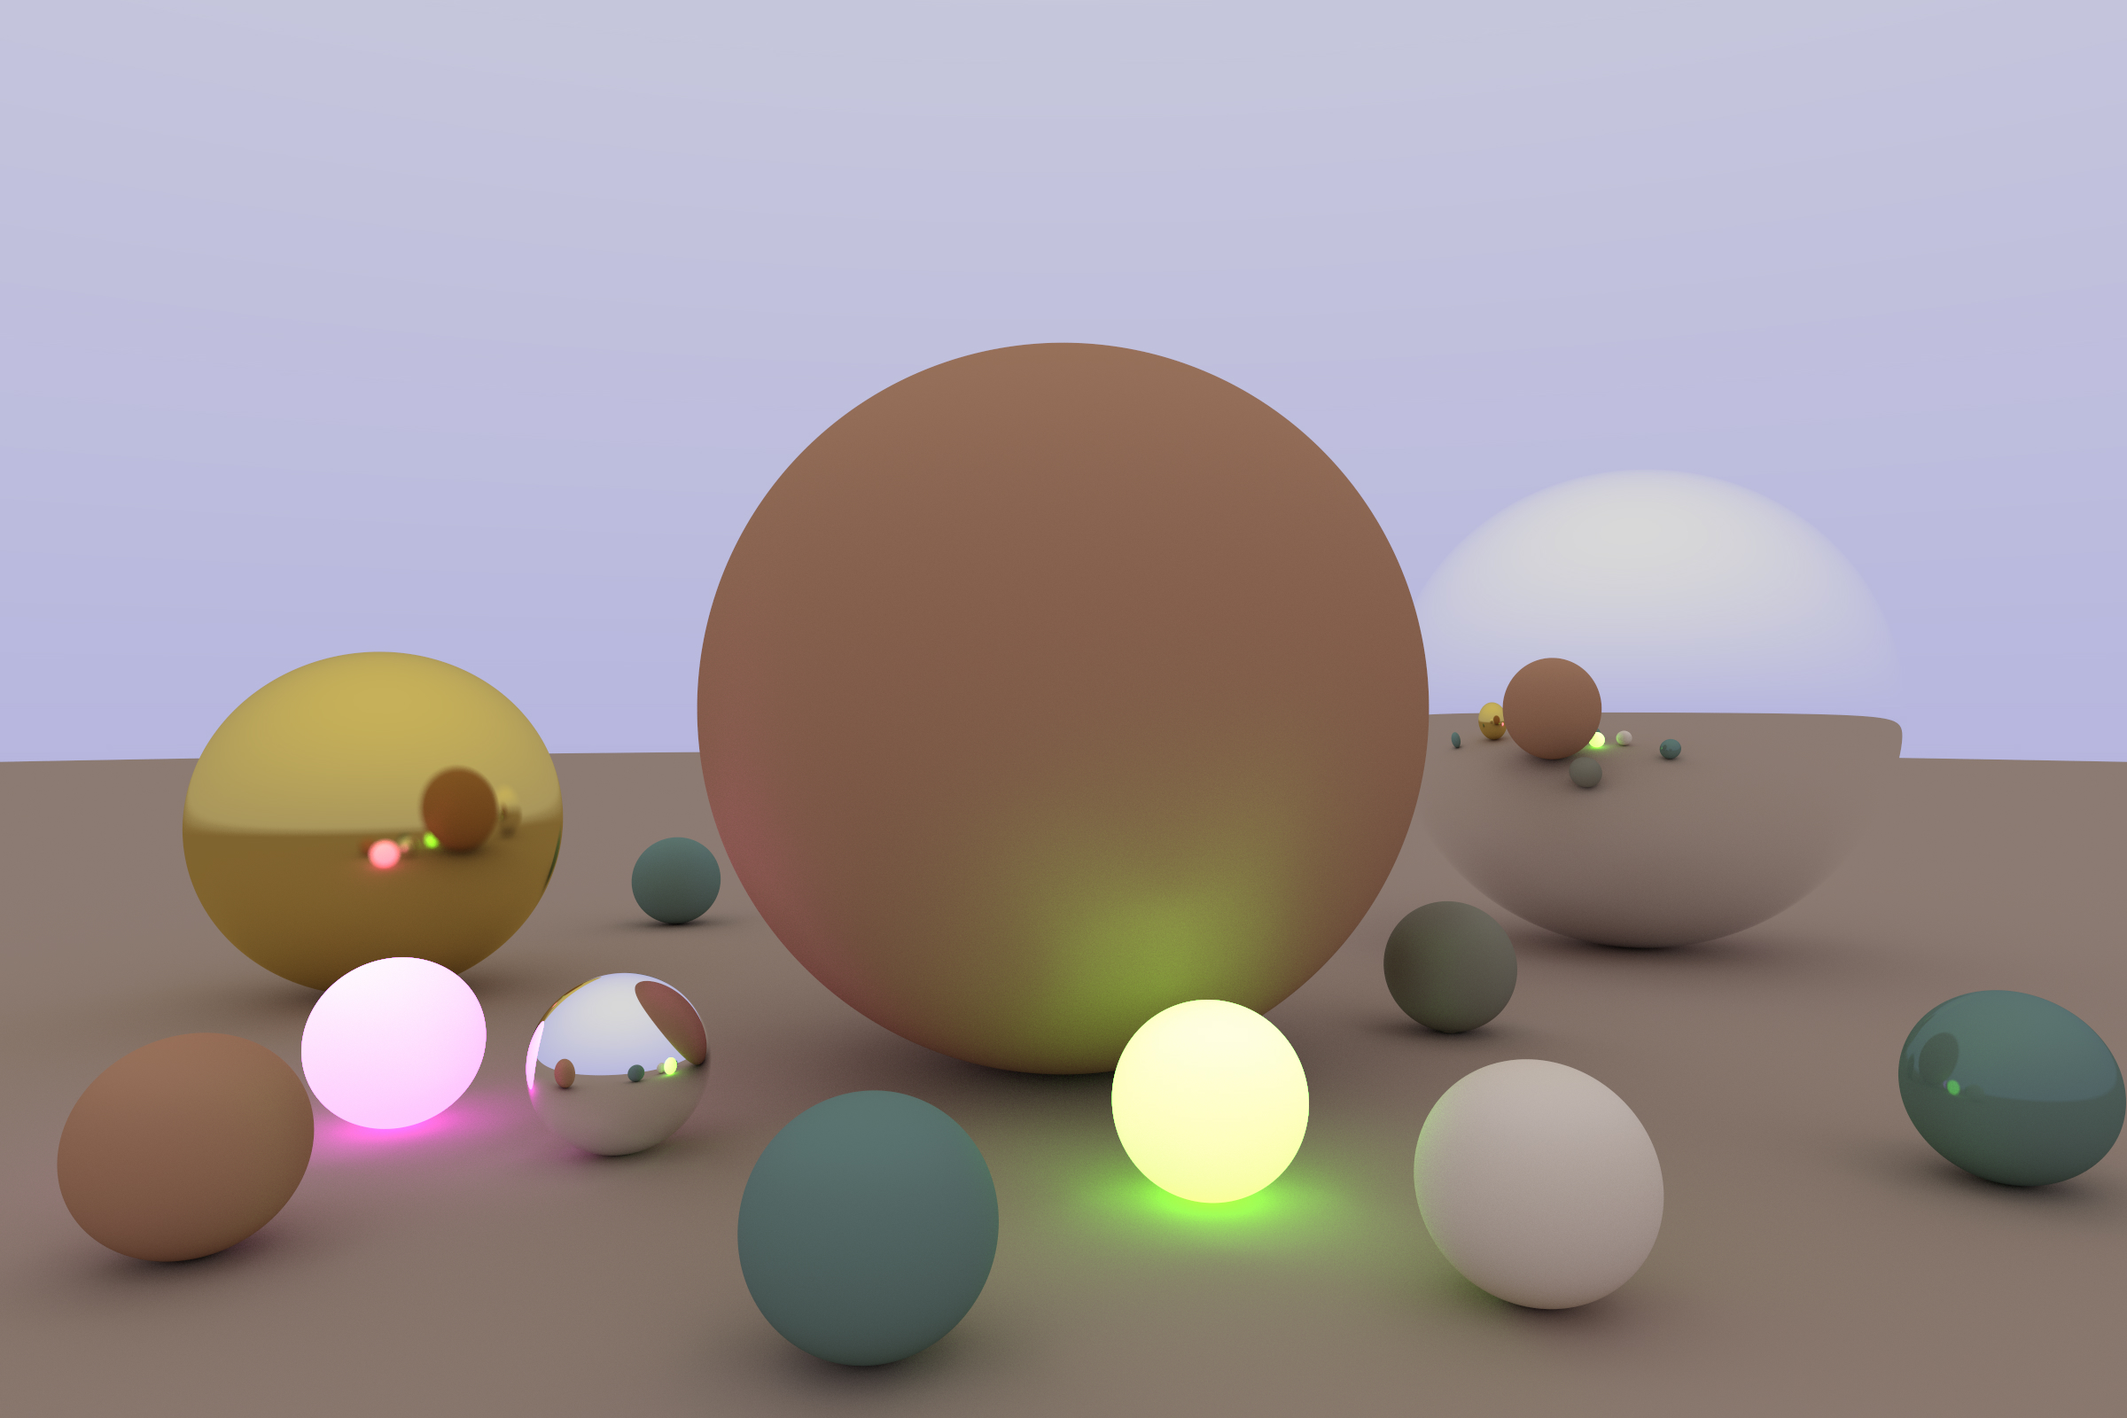
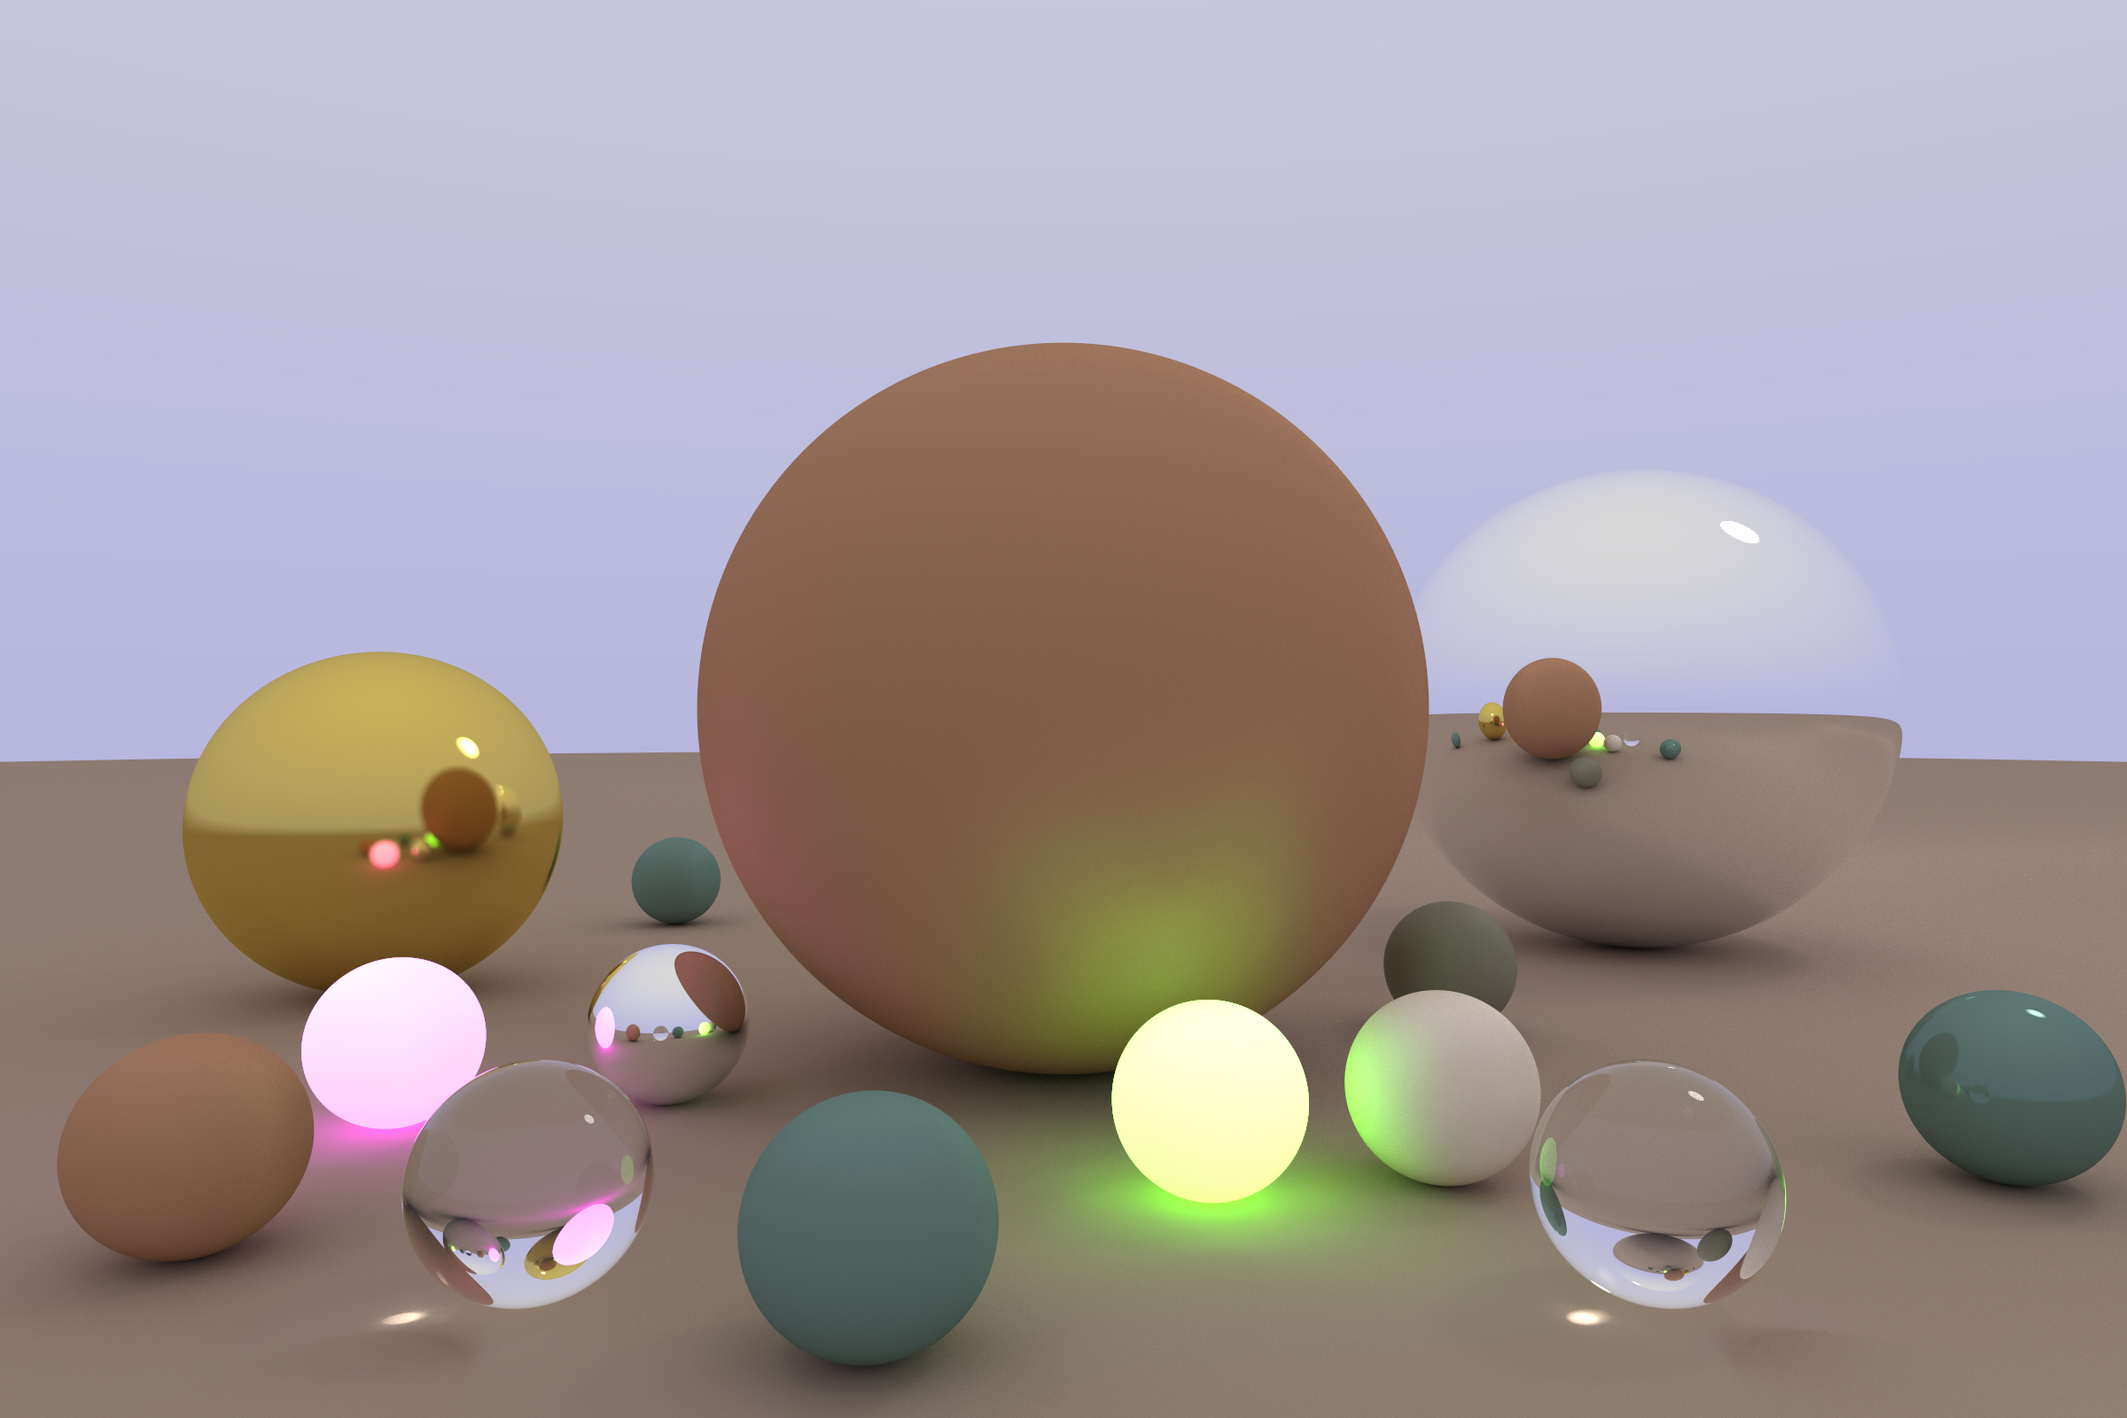
Added glass materials

diff --git a/src/ray_tracing_library/include/Material.h b/src/ray_tracing_library/include/Material.h
@@ -9,47 +9,76 @@
 
 struct HitResult;
 
+/**
+ * Represent a material property for the renderer.
+ *
+ *
+ * It is not implemented with OOP design in order to gain performance.
+ */
 class Material {
 public:
     Material() = default;
 
-    [[nodiscard]]
-    std::tuple<Color, Color, Ray> getColorAndSecondaryRay(const HitResult &hitRes) const;
+    [[nodiscard]] std::tuple<Color, Color, Ray> getColorAndSecondaryRay(const HitResult &hitRes) const;
 
-    [[nodiscard]]
-    static Material getLambertian(const Color &albedo) {
+    [[nodiscard]] static Material getLambertian(const Color &albedo) {
         return Material(albedo);
     }
 
-    [[nodiscard]]
-    static Material
+    [[nodiscard]] static Material
     getSpecular(const Color &albedo, const Color &specularColor, double roughness, double percentSpecular) {
         return {albedo, specularColor, roughness, percentSpecular};
     }
 
-    [[nodiscard]]
-    static Material getGlowing(const Color &albedo, const Color &emittedColor) {
-        return {albedo, {0, 0, 0}, 0, 0, emittedColor};
+    [[nodiscard]] static Material getGlowing(const Color &albedo, const Color &emittedColor) {
+        return {albedo, emittedColor};
+    }
+
+    [[nodiscard]] static Material getGlass(const Color &albedo, double refractionIdx) {
+        return {albedo, refractionIdx};
     }
 
 private:
-    explicit Material(const Color &albedo) :
-            Material(albedo, {0, 0, 0}, 0, 0) {}
+    Color _albedo{};
+    Color _specularColor{};
+    Color _emittedColor{};
+    double _percentSpecular{};
+    double _roughnessSquared{};
+    double _refractionIdx = 1.0;
+    bool _isRefractable = false;
+
+
+    explicit Material(const Color &albedo) : _albedo(albedo),
+                                             _specularColor({0, 0, 0}),
+                                             _emittedColor({0, 0, 0}),
+                                             _percentSpecular(0),
+                                             _roughnessSquared(0) {}
 
     Material(const Color &albedo,
              const Color &specularColor,
-             double roughnessSquared,
-             double percentSpecular,
-             const Color &emittedColor = {0, 0, 0})
-            : _albedo(albedo),
-              _specularColor(specularColor),
-              _emittedColor(emittedColor),
-              _percentSpecular(percentSpecular),
-              _roughnessSquared(roughnessSquared * roughnessSquared) {}
+             double roughness,
+             double percentSpecular) : _albedo(albedo),
+                                       _specularColor(specularColor),
+                                       _emittedColor({0, 0, 0}),
+                                       _percentSpecular(percentSpecular),
+                                       _roughnessSquared(roughness * roughness) {}
 
-    Color _albedo;
-    Color _specularColor{};
-    Color _emittedColor{};
-    double _roughnessSquared{};
-    double _percentSpecular{};
+    Material(const Color &albedo, const Color &emittedColor) : _albedo(albedo),
+                                                               _specularColor({0, 0, 0}),
+                                                               _emittedColor(emittedColor),
+                                                               _percentSpecular(0),
+                                                               _roughnessSquared(0) {}
+
+    Material(const Color &albedo, double refractionIdx) : _albedo(albedo),
+                                                          _specularColor({1, 1, 1}),
+                                                          _emittedColor({0, 0, 0}),
+                                                          _percentSpecular(1.0),
+                                                          _roughnessSquared(0),
+                                                          _refractionIdx(refractionIdx),
+                                                          _isRefractable(true) {}
+
+
+    bool shouldDoReflection(const HitResult &hitRes, double refractionIdxRatio, Vec3 &rayDirNormalized) const;
+
+    std::tuple<Vec3, Color> getSpecularResult(const HitResult &hitRes, Vec3 &diffuseDir, double specularChance) const;
 };

diff --git a/src/ray_tracing_library/src/Material.cpp b/src/ray_tracing_library/src/Material.cpp
@@ -2,22 +2,18 @@
 // Created by Sahar on 11/06/2022.
 //
 
-#include <utils.h>
+#include "utils.h"
 #include "Material.h"
 
 
 std::tuple<Color, Color, Ray> Material::getColorAndSecondaryRay(const HitResult &hitRes) const {
     Vec3 secondaryRayDir;
-    Vec3 diffuseDir = normalize((hitRes.normal + randomUnitVec()));
     Color resultColor;
+    Vec3 diffuseDir = normalize((hitRes.normal + randomUnitVec()));
 
     double specularChance = randomDouble();
-    bool shouldDoSpecular = specularChance < _percentSpecular;
-    if (shouldDoSpecular) {
-        Vec3 specularDir = reflect(hitRes.hittingRay.direction(), hitRes.normal);
-        specularDir = normalize(alphaBlending(specularDir, diffuseDir, _roughnessSquared));
-        secondaryRayDir = specularDir;
-        resultColor = alphaBlending(_specularColor, _albedo, specularChance);
+    if (specularChance < _percentSpecular) {
+        std::tie(secondaryRayDir,resultColor ) = getSpecularResult(hitRes, diffuseDir, specularChance);
     } else {
         secondaryRayDir = diffuseDir;
         resultColor = _albedo;
@@ -27,23 +23,29 @@ std::tuple<Color, Color, Ray> Material::getColorAndSecondaryRay(const HitResult 
     return {_emittedColor, resultColor, secondaryRay};
 }
 
-//bool Glass::getColor(const HitResult &hitRes, Color &attenuation, Ray &reflectionRay, Ray &refractionRay) const {
-//    attenuation = _albedo;
-//    double hitRay_dot_normal = dot(hitRes.hittingRay.direction(), hitRes.normal);
-//    bool front_face = hitRay_dot_normal < 0;
-//    double refraction_ratio = front_face ? (1.0 / _refractiveIndex) : _refractiveIndex;
-//
-//    Vec3 unit_direction = unitVector(hitRes.hittingRay.direction());
-//    double cos_theta = fmin(-hitRay_dot_normal, 1.0);
-//    double sin_theta = sqrt(1.0 - cos_theta*cos_theta);
-//
-//    bool cannot_refract = refraction_ratio * sin_theta > 1.0;
-//    Vec3 direction;
-//    if (cannot_refract || reflectance(cos_theta, refraction_ratio) > randomDouble()) {
-//        direction = reflect(unit_direction, hitRes.normal);
-//    } else {
-//        direction = refract(unit_direction, hitRes.normal, refraction_ratio);
-//    }
-//    refractionRay = Ray(hitRes.hitPoint, direction);
-//    return true;
-//}
+std::tuple<Vec3, Color> Material::getSpecularResult(const HitResult &hitRes,
+                                                    Vec3 &diffuseDir,
+                                                    double specularChance) const {
+    double refractionIdxRatio = hitRes.isOutwardsNormal ? 1.0 / _refractionIdx : _refractionIdx;
+    Vec3 rayDirNormalized = normalize(hitRes.hittingRay.direction());
+
+    Vec3 specularDir;
+    bool doReflection = shouldDoReflection(hitRes, refractionIdxRatio, rayDirNormalized);
+    if (doReflection) {
+        specularDir = reflect(hitRes.hittingRay.direction(), hitRes.normal);
+    } else {
+        specularDir = refract(rayDirNormalized, hitRes.normal, refractionIdxRatio);
+    }
+
+    specularDir = normalize(alphaBlending(specularDir, diffuseDir, _roughnessSquared));
+    Color color = alphaBlending(_specularColor, _albedo, specularChance);
+    return {specularDir, color};
+}
+
+bool Material::shouldDoReflection(const HitResult &hitRes, double refractionIdxRatio, Vec3 &rayDirNormalized) const {
+    double cosTheta = fmin(dot(-rayDirNormalized, hitRes.normal), 1.0);
+    bool cannotRefract = cannotRefractBySnellsLaw(cosTheta, refractionIdxRatio);
+    bool reflectBySchlickApprox = reflectSchlickApproxForFrensel(cosTheta, refractionIdxRatio) > randomDouble();
+    bool doReflection = !_isRefractable || cannotRefract || !reflectBySchlickApprox;
+    return doReflection;
+}

diff --git a/main.cpp b/main.cpp
@@ -34,17 +34,24 @@ World initWorld1() {
 
     Material neonPurpleGlow = Material::getGlowing(white * .8, neonPurple * 3);
     Material neonGreenGlow = Material::getGlowing(white * .8, neonGreen * 3);
+    Material whiteLight = Material::getGlowing(white * .8, white * 10);
+
+    Material glass = Material::getGlass(white, 1.5);
+
+    world.addSphere(Sphere({4, 4.5, -3}, 0.5, whiteLight));
 
     world.addSphere(Sphere({0, 0, -2}, 0.5, lambertianRedBrown));
     world.addSphere(Sphere({1.2, 0, -3}, 0.5, mirror));
     world.addSphere(Sphere({-1.2, -0.2, -2.5}, 0.3, metalGold));
     world.addSphere(Sphere({0.6, -0.4, -2.2}, 0.1, lambertianDarkGreen));
-    world.addSphere(Sphere({0.4, -0.4, -1.2}, 0.1, lambertianBezh));
+    world.addSphere(Sphere({0.4, -0.4, -1.5}, 0.1, lambertianBezh));
+    world.addSphere(Sphere({0.5, -0.4, -1.2}, 0.1, glass));
     world.addSphere(Sphere({1, -0.4, -1.5}, 0.1, metalGreen));
     world.addSphere(Sphere({-0.9, -0.4, -3.3}, 0.1, lambertianGreen));
-    world.addSphere(Sphere({-0.5, -0.4, -1.6}, 0.1, mirror));
+    world.addSphere(Sphere({-0.5, -0.4, -1.8}, 0.1, mirror));
     world.addSphere(Sphere({-0.8, -0.4, -1.7}, 0.1, neonPurpleGlow));
     world.addSphere(Sphere({-0.15, -0.4, -1.1}, 0.1, lambertianGreen));
+    world.addSphere(Sphere({-0.45, -0.4, -1.2}, 0.1, glass));
     world.addSphere(Sphere({0.15, -0.4, -1.45}, 0.1, neonGreenGlow));
     world.addSphere(Sphere({-0.8, -0.4, -1.3}, 0.1, lambertianRedBrown));
     world.addSphere(Sphere({0, -1000.5, -2}, 1000, lambertianBrown));
@@ -85,10 +92,10 @@ World initWorld1() {
 int main() {
     auto start = std::chrono::steady_clock::now();
     const auto aspect_ratio = 3.0 / 2.0;
-    const int image_width = 2400;
+    const int image_width = 200;
     const int image_height = static_cast<int>(image_width / aspect_ratio);
-    const int rayBounces = 12;
-    int nSamplesPerPixel = 800;
+    const int rayBounces = 6;
+    int nSamplesPerPixel = 1500;
 
     auto world = initWorld1();
     auto camera = Camera({0, 0, 0}, aspect_ratio);

diff --git a/src/utils_library/include/utils.h b/src/utils_library/include/utils.h
@@ -69,3 +69,32 @@ double clamp(double toClamp, double low, double high);
  * @return  Clamp result.
  */
 Vec3 clamp(const Vec3 &toClamp, double low, double high);
+
+/**
+ * Check if it is possible to refract the ray according to the cosine of the angle between the normal and the
+ * incoming ray, and using the refractionIdxRatio that is the previous material refractionIdx divided by the target
+ * refractionIdx of the target material.
+ *
+ * Snell's Law is:
+ * sin(theta1) / sin(theta2)  =  eta1 / eta2
+ *
+ * <==> sin(theta1) = (eta1 / eta2) * sin(theta2)
+ *
+ *
+ * Reminder that sin(theta1) is bounded by [-1,1].
+ *
+ * @param cosTheta              The cosine of the angle theta1. (Reminder that cos(angle) is equal to the dot product
+ *                                  between the two vectors, if they have the same origin and are normalized)
+ * @param refractionIdxRatio    Refraction index of first material divided by the second.
+ * @return  If possible to refract according to Snell's Law.
+ */
+bool cannotRefractBySnellsLaw(double cosTheta, double refractionIdxRatio);
+
+/**
+ * Check if shouldn't refract by using Schlick's approximation for Frensel equations.
+ *
+ * @param cosTheta              The cosine of the angle theta. The angle between the normal and the incoming ray.
+ * @param refractionIdxRatio    Refraction index of first material divided by the second.
+ * @return  If should ref
+ */
+double reflectSchlickApproxForFrensel(double cosTheta, double refractionIdxRatio);

diff --git a/src/utils_library/src/utils.cpp b/src/utils_library/src/utils.cpp
@@ -2,11 +2,12 @@
 // Created by Sahar on 08/06/2022.
 //
 
+#include "utils.h"
 #include <string>
 #include <vector>
 #include <memory>
-#include <constants.h>
-#include <stb_library/stb_image_write.h>
+#include "constants.h"
+#include "stb_library/stb_image_write.h"
 #include "Vec3.h"
 
 void saveImgAsJpg(const std::string &filename,
@@ -51,4 +52,16 @@ Vec3 clamp(const Vec3 &toClamp, double low, double high) {
     return {clamp(toClamp.x(), low, high),
             clamp(toClamp.y(), low, high),
             clamp(toClamp.z(), low, high)};
+}
+
+bool cannotRefractBySnellsLaw(double cosTheta, double refractionIdxRatio) {
+    double sinTheta = sqrt(1.0 - cosTheta * cosTheta);
+    bool cannotRefract = refractionIdxRatio * sinTheta > 1.0;
+    return cannotRefract;
+}
+
+double reflectSchlickApproxForFrensel(double cosTheta, double refractionIdxRatio) {
+    double r0 = (1 - refractionIdxRatio) / (1 + refractionIdxRatio);
+    r0 = r0 * r0;
+    return r0 + (1 - r0) * pow(1 - cosTheta, 5);
 }

diff --git a/src/ray_tracing_library/src/Sphere.cpp b/src/ray_tracing_library/src/Sphere.cpp
@@ -30,12 +30,11 @@ bool Sphere::hit(const Ray &ray, double tStart, double tEnd, HitResult &hitRes) 
     // Get color by normal of the hit point:
     Point3 hitPoint = ray.at(root);
     Vec3 normalOfHitPoint = normalize(hitPoint - _center);
-    double eps = 0.001;
-    hitPoint += normalOfHitPoint * eps;
-
-    hitRes.hittingRay = ray;
-    hitRes.tOfHittingRay = root;
-    hitRes.hitPoint = hitPoint;
-    hitRes.normal = normalOfHitPoint;
+    bool isOutwards = dot(ray.direction(), normalOfHitPoint) < 0;
+    hitRes = HitResult(ray,
+                       isOutwards ? normalOfHitPoint : -normalOfHitPoint,
+                       hitPoint,
+                       root,
+                       isOutwards);
     return true;
 }

diff --git a/src/ray_tracing_library/include/HitResult.h b/src/ray_tracing_library/include/HitResult.h
@@ -11,7 +11,17 @@
 
 struct HitResult {
     Ray hittingRay{};
-    double tOfHittingRay{};
-    Point3 hitPoint{};
     Vec3 normal{};
+    Point3 hitPoint{};
+    double tOfHittingRay{};
+    bool isOutwardsNormal{};
+
+    HitResult() = default;
+
+    HitResult(const Ray &hittingRay,
+              const Vec3 &normal,
+              const Point3 &hitPoint,
+              double tOfHittingRay,
+              bool outwardsNormal) : hittingRay(hittingRay), normal(normal), hitPoint(hitPoint),
+                                     tOfHittingRay(tOfHittingRay), isOutwardsNormal(outwardsNormal) {}
 };

diff --git a/src/math_library/src/Vec3.cpp b/src/math_library/src/Vec3.cpp
@@ -86,6 +86,13 @@ Vec3 reflect(const Vec3 &v, const Vec3 &n) {
     return v - 2 * dot(v, n) * n;
 }
 
+Vec3 refract(const Vec3 &rayDirNormalized, const Vec3 &n, double refractionIdxRatio) {
+    double cos_theta = fmin(dot(-rayDirNormalized, n), 1.0);
+    Vec3 r_out_perp =  refractionIdxRatio * (rayDirNormalized + cos_theta * n);
+    Vec3 r_out_parallel = -sqrt(fabs(1.0 - r_out_perp.length_squared())) * n;
+    return r_out_perp + r_out_parallel;
+}
+
 Vec3 randomVec() {
     return {2 * randomDouble() - 1, 2 * randomDouble() - 1, 2 * randomDouble() - 1};
 }

diff --git a/src/ray_tracing_library/src/World.cpp b/src/ray_tracing_library/src/World.cpp
@@ -2,14 +2,14 @@
 // Created by Sahar on 10/06/2022.
 //
 
-#include <HitResult.h>
-#include <constants.h>
-#include <utils.h>
+#include "HitResult.h"
+#include "constants.h"
+#include "utils.h"
 #include "World.h"
 
 Color World::rayTrace(const Ray &ray, int bounce) const {
-    const static Color black = {0, 0, 0};
     if (bounce <= 0) {
+        Color black = {0, 0, 0};
         return black;
     }
     HitResult hitRes;

diff --git a/src/math_library/include/Vec3.h b/src/math_library/include/Vec3.h
@@ -70,6 +70,7 @@ std::ostream &operator<<(std::ostream &out, const Vec3 &v);
 
 Vec3 reflect(const Vec3& v, const Vec3& n);
 
+Vec3 refract(const Vec3 &rayDirNormalized, const Vec3 &n, double refractionIdxRatio);
 
 Vec3 randomVec();
 

diff --git a/src/ray_tracing_library/include/World.h b/src/ray_tracing_library/include/World.h
@@ -8,7 +8,7 @@
 #include <vector>
 #include "Sphere.h"
 
-static const double CLOSEST_POSSIBLE_RAY_HIT = 0.0001;
+static const double CLOSEST_POSSIBLE_RAY_HIT = 0.001;
 
 class World {
 public:
